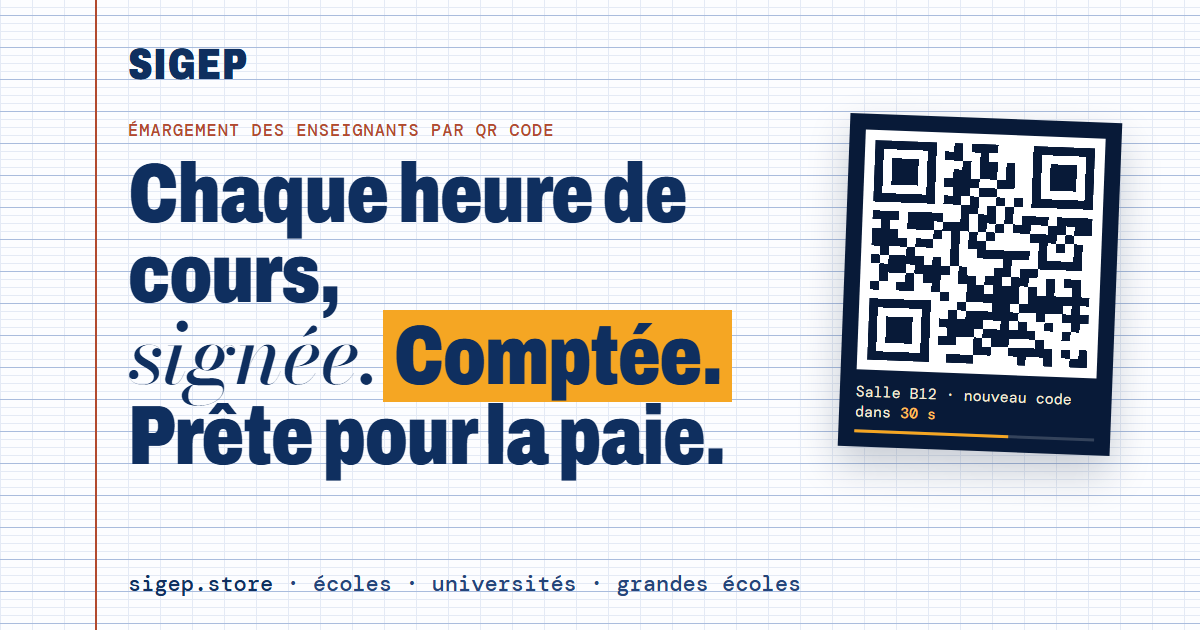
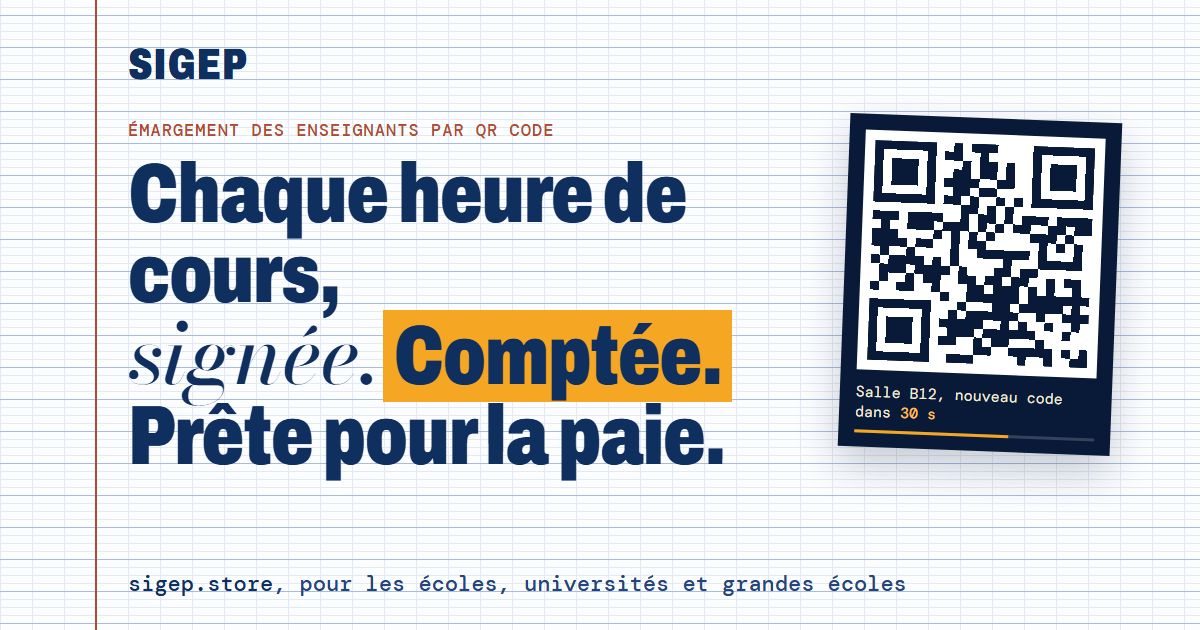
fix(accueil): retirer les points medians des titres et de l'image de partage
Le titre de l'accueil devient une phrase ; les autres pages finissent par
« | SIGEP ». L'image de partage passe en v=3 pour etre rechargee.

Changed region(s): [[0.2467, 0.9048, 0.7708, 0.9651], [0.8017, 0.6032, 0.8942, 0.6635]]

diff --git a/src/main/resources/templates/public/landing.html b/src/main/resources/templates/public/landing.html
@@ -3,7 +3,7 @@
 <head>
     <meta charset="UTF-8"/>
     <meta name="viewport" content="width=device-width, initial-scale=1.0"/>
-    <title th:text="(${marque} ?: 'SIGEP') + ' · Émargement des enseignants par QR code et suivi des heures'">SIGEP · Émargement des enseignants par QR code et suivi des heures</title>
+    <title th:text="(${marque} ?: 'SIGEP') + ', l’émargement des enseignants par QR code et le suivi des heures'">SIGEP, l’émargement des enseignants par QR code et le suivi des heures</title>
     <meta name="description" content="Vos enseignants émargent en scannant un QR code affiché dans la salle. Vous voyez les heures faites séance par séance et vous sortez les états pour la paie."/>
     <link rel="icon" th:href="@{/favicon.ico}" href="/favicon.ico" sizes="any"/>
     <link rel="apple-touch-icon" th:href="@{/images/logo_sigep.png}" href="/images/logo_sigep.png"/>
@@ -22,18 +22,18 @@
     <!-- Carte de partage : sans elle, un lien collé dans WhatsApp arrive en URL nue. -->
     <meta property="og:type" content="website"/>
     <meta property="og:site_name" th:content="${marque} ?: 'SIGEP'"/>
-    <meta property="og:title" th:content="(${marque} ?: 'SIGEP') + ' · Émargement des enseignants par QR code et suivi des heures'"/>
+    <meta property="og:title" th:content="(${marque} ?: 'SIGEP') + ', l’émargement des enseignants par QR code et le suivi des heures'"/>
     <meta property="og:description" content="Suivez les heures réellement effectuées par vos enseignants : émargement par QR code, planning, alertes et rapports de paie. Pour écoles et universités."/>
     <meta property="og:url" th:content="${canonicalUrl}"/>
     <meta property="og:locale" content="fr_FR"/>
-    <meta property="og:image" th:content="${baseUrl} + '/images/og-sigep.png?v=2'" content="https://sigep.store/images/og-sigep.png?v=2"/>
+    <meta property="og:image" th:content="${baseUrl} + '/images/og-sigep.png?v=3'" content="https://sigep.store/images/og-sigep.png?v=3"/>
     <meta property="og:image:width" content="1200"/>
     <meta property="og:image:height" content="630"/>
     <meta property="og:image:alt" content="SIGEP, émargement des enseignants par QR code"/>
     <meta name="twitter:card" content="summary_large_image"/>
-    <meta name="twitter:title" th:content="(${marque} ?: 'SIGEP') + ' · Émargement des enseignants par QR code et suivi des heures'"/>
+    <meta name="twitter:title" th:content="(${marque} ?: 'SIGEP') + ', l’émargement des enseignants par QR code et le suivi des heures'"/>
     <meta name="twitter:description" content="Émargement par QR code, planning et rapports d'heures pour écoles et universités."/>
-    <meta name="twitter:image" th:content="${baseUrl} + '/images/og-sigep.png?v=2'"/>
+    <meta name="twitter:image" th:content="${baseUrl} + '/images/og-sigep.png?v=3'"/>
     <script th:nonce="${cspNonce}" th:if="${plausibleDomain}" defer th:data-domain="${plausibleDomain}"
             src="https://plausible.io/js/script.js"></script>
     <link rel="preconnect" href="https://fonts.googleapis.com"/>

diff --git a/src/main/resources/templates/public/fragments.html b/src/main/resources/templates/public/fragments.html
@@ -31,14 +31,14 @@
     <meta property="og:description" th:content="${description}"/>
     <meta property="og:url" th:content="${canonicalUrl}"/>
     <meta property="og:locale" content="fr_FR"/>
-    <meta property="og:image" th:content="${baseUrl} + '/images/og-sigep.png?v=2'"/>
+    <meta property="og:image" th:content="${baseUrl} + '/images/og-sigep.png?v=3'"/>
     <meta property="og:image:width" content="1200"/>
     <meta property="og:image:height" content="630"/>
     <meta property="og:image:alt" content="SIGEP, émargement des enseignants par QR code"/>
     <meta name="twitter:card" content="summary_large_image"/>
     <meta name="twitter:title" th:content="${titre}"/>
     <meta name="twitter:description" th:content="${description}"/>
-    <meta name="twitter:image" th:content="${baseUrl} + '/images/og-sigep.png?v=2'"/>
+    <meta name="twitter:image" th:content="${baseUrl} + '/images/og-sigep.png?v=3'"/>
 
     <link rel="icon" th:href="@{/favicon.ico}" sizes="any"/>
     <link rel="apple-touch-icon" th:href="@{/images/logo_sigep.png}"/>

diff --git a/src/main/resources/templates/public/guides/fragments.html b/src/main/resources/templates/public/guides/fragments.html
@@ -23,14 +23,14 @@
     <meta property="og:description" th:content="${description}"/>
     <meta property="og:url" th:content="${canonicalUrl}"/>
     <meta property="og:locale" content="fr_FR"/>
-    <meta property="og:image" th:content="${baseUrl} + '/images/og-sigep.png?v=2'"/>
+    <meta property="og:image" th:content="${baseUrl} + '/images/og-sigep.png?v=3'"/>
     <meta property="og:image:width" content="1200"/>
     <meta property="og:image:height" content="630"/>
     <meta property="og:image:alt" content="SIGEP, émargement des enseignants par QR code"/>
     <meta name="twitter:card" content="summary_large_image"/>
     <meta name="twitter:title" th:content="${titre}"/>
     <meta name="twitter:description" th:content="${description}"/>
-    <meta name="twitter:image" th:content="${baseUrl} + '/images/og-sigep.png?v=2'"/>
+    <meta name="twitter:image" th:content="${baseUrl} + '/images/og-sigep.png?v=3'"/>
 
     <link rel="icon" th:href="@{/favicon.ico}" sizes="any"/>
     <link rel="apple-touch-icon" th:href="@{/images/logo_sigep.png}"/>

diff --git a/src/main/resources/templates/public/guides/logiciel-emargement-cote-d-ivoire.html b/src/main/resources/templates/public/guides/logiciel-emargement-cote-d-ivoire.html
@@ -1,6 +1,6 @@
 <!DOCTYPE html>
 <html lang="fr" xmlns:th="http://www.thymeleaf.org">
-<head th:replace="~{public/guides/fragments :: head('Logiciel d’émargement des enseignants en Côte d’Ivoire · SIGEP', 'SIGEP, logiciel d’émargement par QR code et de suivi des heures pour les écoles et universités de Côte d’Ivoire : prix en FCFA, paiement par Mobile Money, émargement même quand le réseau coupe.')}"></head>
+<head th:replace="~{public/guides/fragments :: head('Logiciel d’émargement des enseignants en Côte d’Ivoire | SIGEP', 'SIGEP, logiciel d’émargement par QR code et de suivi des heures pour les écoles et universités de Côte d’Ivoire : prix en FCFA, paiement par Mobile Money, émargement même quand le réseau coupe.')}"></head>
 <body>
 <div class="seyes">
     <nav th:replace="~{public/guides/fragments :: entete}"></nav>

diff --git a/src/main/resources/templates/public/guides/suivi-heures-vacataires.html b/src/main/resources/templates/public/guides/suivi-heures-vacataires.html
@@ -1,6 +1,6 @@
 <!DOCTYPE html>
 <html lang="fr" xmlns:th="http://www.thymeleaf.org">
-<head th:replace="~{public/guides/fragments :: head('Suivi des heures des enseignants vacataires · SIGEP', 'Suivez les heures de vos vacataires séance par séance : émargement par QR code, durée réelle, oublis visibles et un seul compte pour l’enseignant qui intervient dans plusieurs établissements.')}"></head>
+<head th:replace="~{public/guides/fragments :: head('Suivi des heures des enseignants vacataires | SIGEP', 'Suivez les heures de vos vacataires séance par séance : émargement par QR code, durée réelle, oublis visibles et un seul compte pour l’enseignant qui intervient dans plusieurs établissements.')}"></head>
 <body>
 <div class="seyes">
     <nav th:replace="~{public/guides/fragments :: entete}"></nav>

diff --git a/src/main/resources/templates/public/guides/etat-heures-paie-enseignants.html b/src/main/resources/templates/public/guides/etat-heures-paie-enseignants.html
@@ -1,6 +1,6 @@
 <!DOCTYPE html>
 <html lang="fr" xmlns:th="http://www.thymeleaf.org">
-<head th:replace="~{public/guides/fragments :: head('État des heures des enseignants pour la paie · SIGEP', 'L’état mensuel des heures faites par chaque enseignant, vérifié à l’écran puis exporté en CSV ou Excel pour le service paie : heures à payer, séances en attente, oublis et retards.')}"></head>
+<head th:replace="~{public/guides/fragments :: head('État des heures des enseignants pour la paie | SIGEP', 'L’état mensuel des heures faites par chaque enseignant, vérifié à l’écran puis exporté en CSV ou Excel pour le service paie : heures à payer, séances en attente, oublis et retards.')}"></head>
 <body>
 <div class="seyes">
     <nav th:replace="~{public/guides/fragments :: entete}"></nav>

diff --git a/src/main/resources/templates/public/cgu.html b/src/main/resources/templates/public/cgu.html
@@ -1,6 +1,6 @@
 <!DOCTYPE html>
 <html lang="fr" xmlns:th="http://www.thymeleaf.org">
-<head th:replace="~{public/fragments :: head('Conditions générales d’utilisation · SIGEP', 'Conditions générales d’utilisation de SIGEP : objet du service, comptes et accès, abonnement et paiement, disponibilité, résiliation et droit applicable.', false)}"></head>
+<head th:replace="~{public/fragments :: head('Conditions générales d’utilisation | SIGEP', 'Conditions générales d’utilisation de SIGEP : objet du service, comptes et accès, abonnement et paiement, disponibilité, résiliation et droit applicable.', false)}"></head>
 <body>
 <main class="max-w-[820px] mx-auto px-5 md:px-8 py-14 page-texte">
     <a th:href="@{/}" class="text-[13px] text-muted hover:text-ink">← Retour à l'accueil</a>

diff --git a/src/main/resources/templates/public/confidentialite.html b/src/main/resources/templates/public/confidentialite.html
@@ -1,6 +1,6 @@
 <!DOCTYPE html>
 <html lang="fr" xmlns:th="http://www.thymeleaf.org">
-<head th:replace="~{public/fragments :: head('Politique de confidentialité · SIGEP', 'Traitement des données des enseignants et des établissements par SIGEP : données collectées, finalités, durée de conservation, cookies et exercice de vos droits.', false)}"></head>
+<head th:replace="~{public/fragments :: head('Politique de confidentialité | SIGEP', 'Traitement des données des enseignants et des établissements par SIGEP : données collectées, finalités, durée de conservation, cookies et exercice de vos droits.', false)}"></head>
 <body>
 <main class="max-w-[820px] mx-auto px-5 md:px-8 py-14 page-texte">
     <a th:href="@{/}" class="text-[13px] text-muted hover:text-ink">← Retour à l'accueil</a>

diff --git a/src/main/resources/templates/public/inscription.html b/src/main/resources/templates/public/inscription.html
@@ -1,6 +1,6 @@
 <!DOCTYPE html>
 <html lang="fr" xmlns:th="http://www.thymeleaf.org" data-toujours-clair>
-<head th:replace="~{public/fragments :: head('Inscrire mon établissement · SIGEP', 'Ouvrez gratuitement l’espace SIGEP de votre école ou université : émargement par QR code, planning des séances et rapports d’heures. Sans carte bancaire, sans engagement.', true)}"></head>
+<head th:replace="~{public/fragments :: head('Inscrire mon établissement | SIGEP', 'Ouvrez gratuitement l’espace SIGEP de votre école ou université : émargement par QR code, planning des séances et rapports d’heures. Sans carte bancaire, sans engagement.', true)}"></head>
 <body class="porte">
 <aside class="porte-nuit">
     <a th:href="@{/}" class="marque">SIGEP</a>

diff --git a/src/main/resources/templates/public/mentions-legales.html b/src/main/resources/templates/public/mentions-legales.html
@@ -1,6 +1,6 @@
 <!DOCTYPE html>
 <html lang="fr" xmlns:th="http://www.thymeleaf.org">
-<head th:replace="~{public/fragments :: head('Mentions légales · SIGEP', 'Mentions légales de SIGEP : éditeur du service, directeur de la publication, hébergeur et propriété intellectuelle du service d’émargement en ligne.', false)}"></head>
+<head th:replace="~{public/fragments :: head('Mentions légales | SIGEP', 'Mentions légales de SIGEP : éditeur du service, directeur de la publication, hébergeur et propriété intellectuelle du service d’émargement en ligne.', false)}"></head>
 <body>
 <main class="max-w-[820px] mx-auto px-5 md:px-8 py-14 page-texte">
     <a th:href="@{/}" class="text-[13px] text-muted hover:text-ink">← Retour à l'accueil</a>

diff --git a/src/main/resources/templates/public/guides/emargement-qr-code.html b/src/main/resources/templates/public/guides/emargement-qr-code.html
@@ -1,6 +1,6 @@
 <!DOCTYPE html>
 <html lang="fr" xmlns:th="http://www.thymeleaf.org">
-<head th:replace="~{public/guides/fragments :: head('Émargement des enseignants par QR code · SIGEP', 'L’enseignant scanne le QR code affiché en salle et signe sur son téléphone. La séance est comptée à sa durée réelle, sans feuille de présence à ressaisir.')}"></head>
+<head th:replace="~{public/guides/fragments :: head('Émargement des enseignants par QR code | SIGEP', 'L’enseignant scanne le QR code affiché en salle et signe sur son téléphone. La séance est comptée à sa durée réelle, sans feuille de présence à ressaisir.')}"></head>
 <body>
 <div class="seyes">
     <nav th:replace="~{public/guides/fragments :: entete}"></nav>

diff --git a/src/main/resources/templates/public/inscription-payer.html b/src/main/resources/templates/public/inscription-payer.html
@@ -1,6 +1,6 @@
 <!DOCTYPE html>
 <html lang="fr" xmlns:th="http://www.thymeleaf.org" data-toujours-clair>
-<head th:replace="~{public/fragments :: head('Paiement · SIGEP', 'Choisissez votre offre et payez en Mobile Money pour activer votre espace SIGEP.', true)}"></head>
+<head th:replace="~{public/fragments :: head('Paiement | SIGEP', 'Choisissez votre offre et payez en Mobile Money pour activer votre espace SIGEP.', true)}"></head>
 <body class="porte">
 <aside class="porte-nuit">
     <a th:href="@{/}" class="marque">SIGEP</a>
